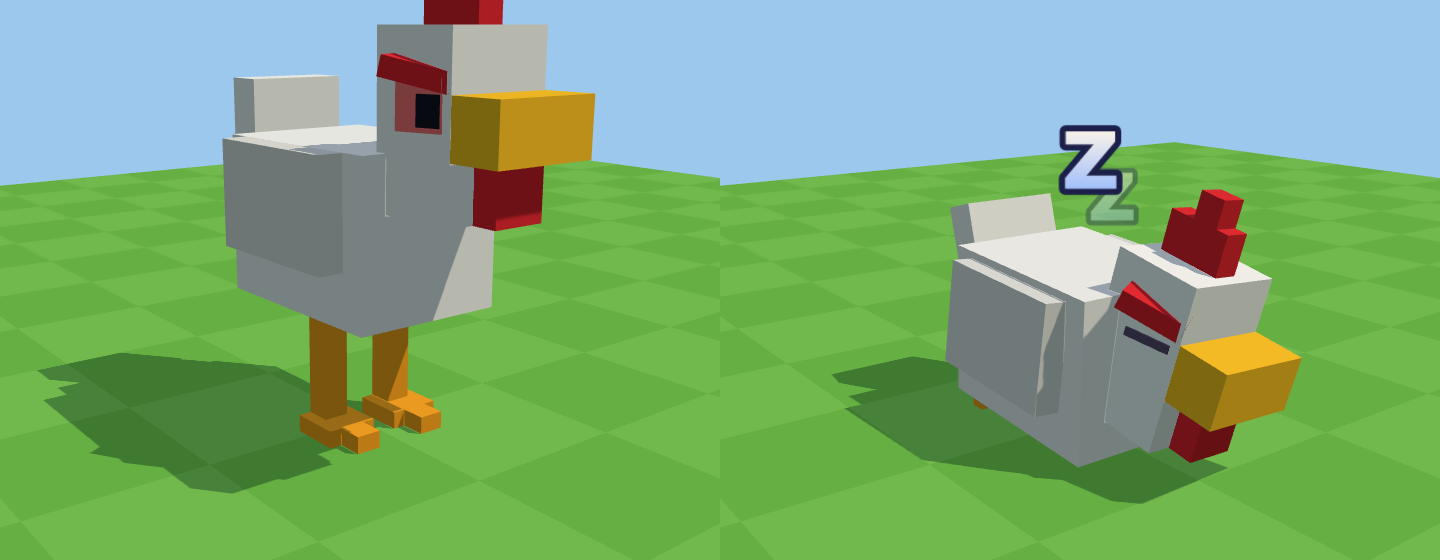
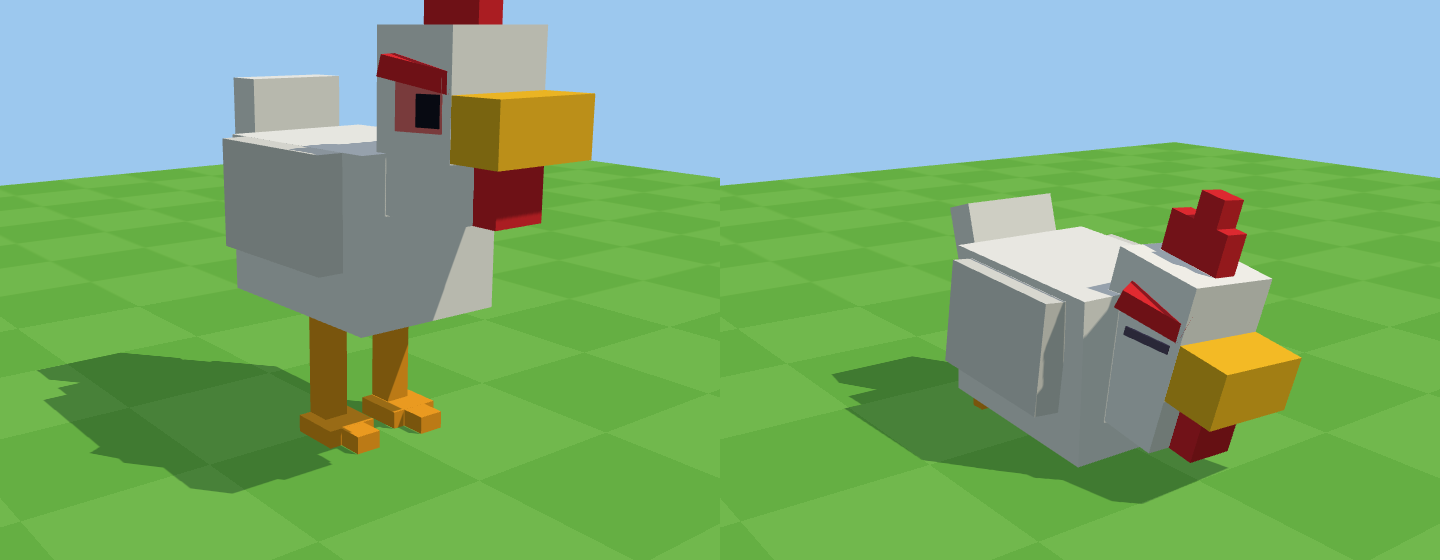
No Zzz over the sleeping Mother Hen (QM)
Claude-Session: https://claude.ai/code/session_01NNaW1c4ChUvZE5nxGqkszn

Changed region(s): [[0.7188, 0.2125, 0.8125, 0.425]]

diff --git a/tools/render_sleep.py b/tools/render_sleep.py
@@ -79,7 +79,7 @@ def sleep_settings(model):
     num = lambda text, key: float(re.search(key + r" = (" + NUM + ")", text).group(1))
     return {
         "bones": bones("Bones"), "breathe": bones("Breathe"), "shut": names("Shut"), "hide": names("Hide"),
-        "zzzAt": nums(re.search(r"Zzz = Vector3\.new\(([^)]*)\)", pose).group(1)),
+        "zzzAt": (lambda m: nums(m.group(1)) if m else None)(re.search(r"\n\t*Zzz = Vector3\.new\(([^)]*)\)", pose)),
         "breath": num(sleep, "Breath"), "settle": num(sleep, "Settle"),
         "zzz": {k: num(zzz, k) for k in ("Count", "Gap", "Size", "Rise", "Life")},
     }
@@ -232,7 +232,7 @@ def frames(sleep, fps=15):
         breath = 0.5 - 0.5 * math.cos(t / B * 2 * math.pi)
         # a run of Zs as each breath goes out (the top of the breath), while it's asleep
         prev = (t - 1 / fps) / B
-        if want and math.floor(prev + 0.5) != math.floor(t / B + 0.5) and s > 0.5:
+        if sleep["zzzAt"] and want and math.floor(prev + 0.5) != math.floor(t / B + 0.5) and s > 0.5:
             runs.append(t)
         zs = []
         for r in runs:
@@ -253,7 +253,7 @@ def main():
     fs = frames(sleep)
     stills = [
         {"name": "awake.png", "s": 0, "breath": 0, "zs": [], "eye": (13, 9, -17), "at": (0, 3.4, 0)},
-        {"name": "asleep.png", "s": 1, "breath": 0.4, "zs": [{"age": 0.5, "i": 0}, {"age": 0.15, "i": 1}],
+        {"name": "asleep.png", "s": 1, "breath": 0.4, "zs": [{"age": 0.5, "i": 0}, {"age": 0.15, "i": 1}] if sleep["zzzAt"] else [],
          "eye": (13, 9, -17), "at": (0, 3.4, 0)},
     ]
     tmp = tempfile.mkdtemp()
